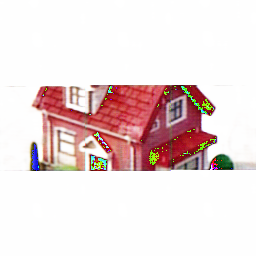
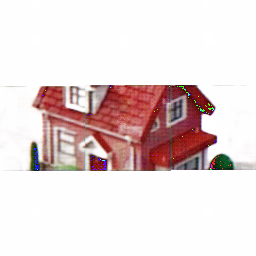
fix

Changed region(s): [[0.0938, 0.3125, 0.9375, 0.6875], [0.0312, 0.3125, 0.0625, 0.3438]]

diff --git a/models.py b/models.py
@@ -83,7 +83,6 @@ class ResidualBlock(nn.Module):
 
     def forward(self, x):
         #print("residual forward")
-        x=x.float()
         return self.model(x) + x
 
 
@@ -98,15 +97,15 @@ class Generator(nn.Module):
         layers = []
 
         # input layer
-        layers.append(nn.Conv2d(in_channels=3, out_channels=conv_dim, kernel_size=7, stride=1, padding=3, bias=False, padding_mode='reflect', device=device))
-        layers.append(nn.InstanceNorm2d(conv_dim, affine=True, track_running_stats=True, device=device))
+        layers.append(nn.Conv2d(in_channels=3, out_channels=conv_dim, kernel_size=7, stride=1, padding=3, bias=True, padding_mode='reflect', device=device))
+        layers.append(nn.InstanceNorm2d(conv_dim, affine=False, track_running_stats=False, device=device))
         layers.append(nn.ReLU(inplace=True))
 
         # down sampling layers
         current_dims = conv_dim
         for i in range(2):
-            layers.append(nn.Conv2d(current_dims, current_dims*2, kernel_size=3, stride=2, padding=1, bias=False, device=device))
-            layers.append(nn.InstanceNorm2d(current_dims*2, affine=True, track_running_stats=True, device=device))
+            layers.append(nn.Conv2d(current_dims, current_dims*2, kernel_size=3, stride=2, padding=1, bias=True, device=device))
+            layers.append(nn.InstanceNorm2d(current_dims*2, affine=False, track_running_stats=False, device=device))
             layers.append(nn.ReLU(inplace=True))
             current_dims *= 2
 
@@ -116,19 +115,18 @@ class Generator(nn.Module):
 
         # up sampling layers
         for i in range(2):
-            layers.append(nn.ConvTranspose2d(current_dims, current_dims//2, kernel_size=3, stride=2, padding=1, output_padding=1, bias=False, device=device))
-            layers.append(nn.InstanceNorm2d(current_dims//2, affine=True, track_running_stats=True, device=device))
+            layers.append(nn.ConvTranspose2d(current_dims, current_dims//2, kernel_size=3, stride=2, padding=1, output_padding=1, bias=True, device=device))
+            layers.append(nn.InstanceNorm2d(current_dims//2, affine=False, track_running_stats=False, device=device))
             layers.append(nn.ReLU(inplace=True))
             current_dims = current_dims//2
 
         # output layer
-        layers.append(nn.Conv2d(current_dims, 3, kernel_size=7, stride=1, padding=3, bias=False, padding_mode='reflect', device=device))
+        layers.append(nn.Conv2d(current_dims, 3, kernel_size=7, stride=1, padding=3, bias=True, padding_mode='reflect', device=device))
         layers.append(nn.Tanh())
 
         self.model = nn.Sequential(*layers)
 
     def forward(self, x,):
-        x=x.float()
         #("generator forward")
         return self.model(x)
 
@@ -161,11 +159,10 @@ class Discriminator(nn.Module):
         self.model = nn.Sequential(*layers)
 
         # output layer
-        self.conv_src = nn.Conv2d(current_dim, 1, kernel_size=4, stride=1, padding=1, bias=False, device=device)
+        self.conv_src = nn.Conv2d(current_dim, 1, kernel_size=4, stride=1, padding=1, bias=True, device=device)
 
     def forward(self, x):
         #print("discriminator forward")
-        x=x.float()
         x = self.model(x)
         out_src = self.conv_src(x)
         return out_src

diff --git a/generate.py b/generate.py
@@ -57,5 +57,5 @@ def generate_image(input_img_path, genre, model_path, output_image_path):
     data.save(final_path)
 
 if __name__=="__main__":
-    generate_image('HOUSE.jpg', genre='lego', model_path='model1.pth', output_image_path="bigmode4house.jpg")
+    generate_image('HOUSE.jpg', genre='lego', model_path='model0.pth', output_image_path="bigmode4house.jpg")
     #generate_image('ORIGINAL.jpg', genre='lego', model_path='bad_discriminator.pth', output_image_path="bad_discriminator.jpg")
